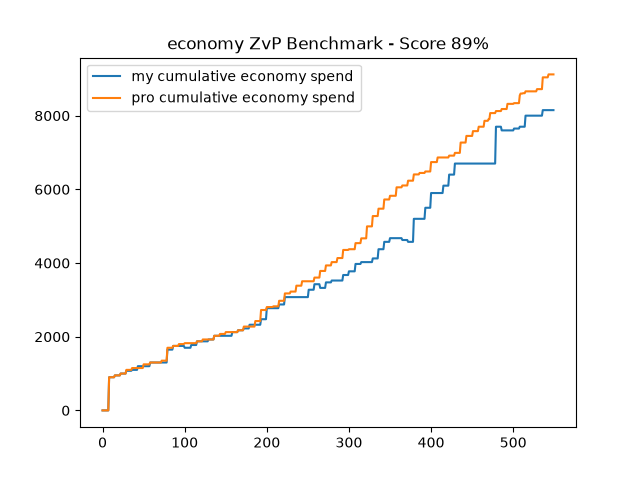
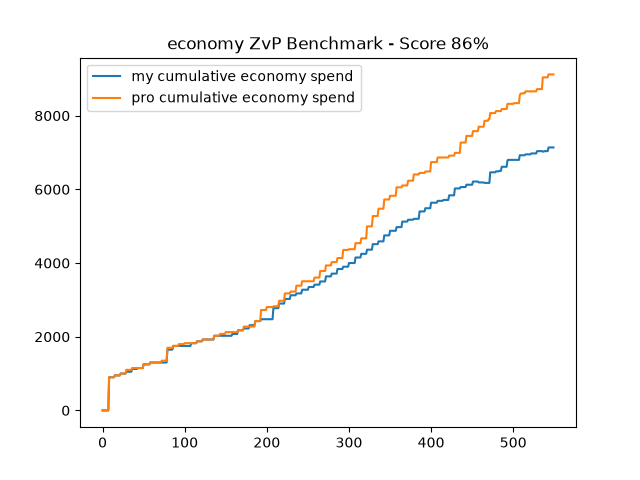
save

diff --git a/src/28_extract_my_army.py b/src/28_extract_my_army.py
@@ -7,7 +7,7 @@ from utils import *
 
 all_dfs = []
 game_number = 0
-for account in ['sample']:
+for account in ['sample/account1', 'sample/account2', 'sample/account3', 'sample/account4']:
     base_project_folder = get_base_project_folder()
     files = glob(f'{base_project_folder}/data/input/my_data/{account}/*')
     for file in tqdm.tqdm(files):
@@ -20,10 +20,12 @@ for account in ['sample']:
         if replay.map_name in ['Ruby Rock LE', 'Emerald City CE', 'Reclamation LE', 'Fields of Death', 'Gemgarden LE', 'New Bed of Chaos LE', 'Rhoskallian LE', 'Rust Bucket LE', 'Sludge City', 'Undercurrent LE', 'Yellowjacket', 'Phantom Mode']:
             continue
         game_number += 1
-        assert replay.map_name in ['valid_maps', "At Eternity's Edge LE", 'Blackrock LE', 'Fear and Faith LE', 'Rainfall LE', 'Sanctuary III LE', 'Lockdown LE', 'Washout LE', 'Rorschach LE', 'Old Sun Temple LE'], replay.map_name
+        if replay.map_name not in ['valid_maps', "At Eternity's Edge LE", 'Blackrock LE', 'Fear and Faith LE', 'Rainfall LE', 'Sanctuary III LE', 'Lockdown LE', 'Washout LE', 'Rorschach LE', 'Old Sun Temple LE']:
+            continue
 
         is_valid_release = replay.release_string >= '5.0.16'
-        assert is_valid_release, replay.release_string
+        if not is_valid_release:
+            continue
         
         player1 = 'nemo'
         player2 = None
@@ -57,11 +59,15 @@ for account in ['sample']:
                     continue
             except:
                 pass
-            
-        
-            if event.name == 'PlayerStatsEvent':
-                army_data.append(seconds)
-                army_amounts_data.append(event.minerals_used_current_army + event.minerals_used_in_progress_army + event.vespene_used_current_army + event.vespene_used_in_progress_army)
+            if event.name in ('UnitBornEvent', 'UnitInitEvent'):
+                unit = event.unit
+                if getattr(unit, 'is_army', False):
+                    army_data.append(seconds)
+                    army_amounts_data.append(unit.minerals + unit.vespene)
+    
+            # if event.name == 'PlayerStatsEvent':
+            #     army_data.append(seconds)
+            #     army_amounts_data.append(event.minerals_used_current_army + event.minerals_used_in_progress_army + event.vespene_used_current_army + event.vespene_used_in_progress_army)
             if seconds > 10*60:
                 break
         output_df = pd.DataFrame()

diff --git a/src/20_extract_my_supply.py b/src/20_extract_my_supply.py
@@ -7,7 +7,7 @@ from utils import *
 
 all_dfs = []
 game_number = 0
-for account in ['sample']:
+for account in ['sample/account1', 'sample/account2', 'sample/account3', 'sample/account4']:
     base_project_folder = get_base_project_folder()
     files = glob(f'{base_project_folder}/data/input/my_data/{account}/*')
     for file in tqdm.tqdm(files):
@@ -20,10 +20,12 @@ for account in ['sample']:
         if replay.map_name in ['Ruby Rock LE', 'Emerald City CE', 'Reclamation LE', 'Fields of Death', 'Gemgarden LE', 'New Bed of Chaos LE', 'Rhoskallian LE', 'Rust Bucket LE', 'Sludge City', 'Undercurrent LE', 'Yellowjacket', 'Phantom Mode']:
             continue
         game_number += 1
-        assert replay.map_name in ['valid_maps', "At Eternity's Edge LE", 'Blackrock LE', 'Fear and Faith LE', 'Rainfall LE', 'Sanctuary III LE', 'Lockdown LE', 'Washout LE', 'Rorschach LE', 'Old Sun Temple LE'], replay.map_name
+        if replay.map_name not in ['valid_maps', "At Eternity's Edge LE", 'Blackrock LE', 'Fear and Faith LE', 'Rainfall LE', 'Sanctuary III LE', 'Lockdown LE', 'Washout LE', 'Rorschach LE', 'Old Sun Temple LE']:
+            continue
 
         is_valid_release = replay.release_string >= '5.0.16'
-        assert is_valid_release, replay.release_string
+        if not is_valid_release:
+            continue
         
         player1 = 'nemo'
         player2 = None
@@ -61,7 +63,7 @@ for account in ['sample']:
         
             if event.name == 'PlayerStatsEvent':
                 supply_data.append(seconds)
-                supply_amounts_data.append(event.food_made - event.food_used)
+                supply_amounts_data.append(event.food_made)
             if seconds > 10*60:
                 break
         output_df = pd.DataFrame()

diff --git a/src/3_extract_my_larva_born.py b/src/3_extract_my_larva_born.py
@@ -7,7 +7,7 @@ from utils import *
 
 all_dfs = []
 game_number = 0
-for account in ['sample']:
+for account in ['sample/account1', 'sample/account2', 'sample/account3', 'sample/account4']:
     base_project_folder = get_base_project_folder()
     files = glob(f'{base_project_folder}/data/input/my_data/{account}/*')
     for file in tqdm.tqdm(files):
@@ -17,13 +17,15 @@ for account in ['sample']:
         except Exception as e:
             print(f"Failed to load {file}: {e}")
             continue
-        if replay.map_name in ['Ruby Rock LE', 'Emerald City CE', 'Reclamation LE', 'Fields of Death', 'Gemgarden LE', 'New Bed of Chaos LE', 'Rhoskallian LE', 'Rust Bucket LE', 'Sludge City', 'Undercurrent LE', 'Yellowjacket', 'Phantom Mode']:
+        if replay.map_name in ['Ruby Rock LE', 'Emerald City CE', 'Reclamation LE', 'Fields of Death', 'Gemgarden LE', 'New Bed of Chaos LE', 'Rhoskallian LE', 'Rust Bucket LE', 'Sludge City', 'Undercurrent LE', 'Yellowjacket', 'Phantom Mode', '']:
             continue
         game_number += 1
-        assert replay.map_name in ['valid_maps', "At Eternity's Edge LE", 'Blackrock LE', 'Fear and Faith LE', 'Rainfall LE', 'Sanctuary III LE', 'Lockdown LE', 'Washout LE', 'Rorschach LE', 'Old Sun Temple LE'], replay.map_name
+        if replay.map_name not in ['valid_maps', "At Eternity's Edge LE", 'Blackrock LE', 'Fear and Faith LE', 'Rainfall LE', 'Sanctuary III LE', 'Lockdown LE', 'Washout LE', 'Rorschach LE', 'Old Sun Temple LE']:
+            continue
 
         is_valid_release = replay.release_string >= '5.0.16'
-        assert is_valid_release, replay.release_string
+        if not is_valid_release:
+            continue
         
         player1 = 'nemo'
         player2 = None

diff --git a/src/main.py b/src/main.py
@@ -26,14 +26,15 @@ def save_params(val1, val2):
         print(f"Failed to save preferences: {e}")
 
 def my_main_function(replay_path, player_name):
-    all_files = glob("*.py")
-    files_of_interest = [y for (x, y) in sorted([(str(x.split("_")[0]).zfill(2), x) for x in all_files]) if 'get_data' not in y and 'pro' not in y and y not in ['main.py', 'utils.py']]
-    result = subprocess.run([sys.executable, '1_get_data.py', replay_path, player_name], check=True, capture_output=True, text=True)
-    print("STDOUT:", result.stdout)
-    print("STDERR:", result.stderr)
+    all_files = glob("*.py") # and 'pro' not in y
+    files_of_interest = [y for (x, y) in sorted([(str(x.split("_")[0]).zfill(2), x) for x in all_files]) if 'get_data' not in y and y not in ['main.py', 'utils.py', 'flask_app_backup.py']]
+    print(files_of_interest)
+    # result = subprocess.run([sys.executable, '1_get_data.py', replay_path, player_name], check=True, capture_output=True, text=True)
+    # print("STDOUT:", result.stdout)
+    # print("STDERR:", result.stderr)
     for script_name in tqdm.tqdm(files_of_interest):
         print(script_name)
-        subprocess.run([sys.executable, script_name], check=True)
+        result = subprocess.run([sys.executable, script_name], check=True)
         print("STDOUT:", result.stdout)
         print("STDERR:", result.stderr)
     html_file = Path(__file__).parent / "output_html.html"

diff --git a/src/11_extract_my_larva.py b/src/11_extract_my_larva.py
@@ -7,7 +7,7 @@ from utils import *
 
 all_dfs = []
 game_number = 0
-for account in ['sample']:
+for account in ['sample/account1', 'sample/account2', 'sample/account3', 'sample/account4']:
     base_project_folder = get_base_project_folder()
     files = glob(f'{base_project_folder}/data/input/my_data/{account}/*')
     for file in tqdm.tqdm(files):
@@ -20,10 +20,12 @@ for account in ['sample']:
         if replay.map_name in ['Ruby Rock LE', 'Emerald City CE', 'Reclamation LE', 'Fields of Death', 'Gemgarden LE', 'New Bed of Chaos LE', 'Rhoskallian LE', 'Rust Bucket LE', 'Sludge City', 'Undercurrent LE', 'Yellowjacket', 'Phantom Mode']:
             continue
         game_number += 1
-        assert replay.map_name in ['valid_maps', "At Eternity's Edge LE", 'Blackrock LE', 'Fear and Faith LE', 'Rainfall LE', 'Sanctuary III LE', 'Lockdown LE', 'Washout LE', 'Rorschach LE', 'Old Sun Temple LE'], replay.map_name
+        if replay.map_name not in ['valid_maps', "At Eternity's Edge LE", 'Blackrock LE', 'Fear and Faith LE', 'Rainfall LE', 'Sanctuary III LE', 'Lockdown LE', 'Washout LE', 'Rorschach LE', 'Old Sun Temple LE']:
+            continue
 
         is_valid_release = replay.release_string >= '5.0.16'
-        assert is_valid_release, replay.release_string
+        if not is_valid_release:
+            continue
         
         player1 = 'nemo'
         player2 = None

diff --git a/src/16_extract_my_creep.py b/src/16_extract_my_creep.py
@@ -7,7 +7,7 @@ from utils import *
 
 all_dfs = []
 game_number = 0
-for account in ['sample']:
+for account in ['sample/account1', 'sample/account2', 'sample/account3', 'sample/account4']:
     base_project_folder = get_base_project_folder()
     files = glob(f'{base_project_folder}/data/input/my_data/{account}/*')
     for file in tqdm.tqdm(files):
@@ -20,10 +20,12 @@ for account in ['sample']:
         if replay.map_name in ['Ruby Rock LE', 'Emerald City CE', 'Reclamation LE', 'Fields of Death', 'Gemgarden LE', 'New Bed of Chaos LE', 'Rhoskallian LE', 'Rust Bucket LE', 'Sludge City', 'Undercurrent LE', 'Yellowjacket', 'Phantom Mode']:
             continue
         game_number += 1
-        assert replay.map_name in ['valid_maps', "At Eternity's Edge LE", 'Blackrock LE', 'Fear and Faith LE', 'Rainfall LE', 'Sanctuary III LE', 'Lockdown LE', 'Washout LE', 'Rorschach LE', 'Old Sun Temple LE'], replay.map_name
+        if replay.map_name not in ['valid_maps', "At Eternity's Edge LE", 'Blackrock LE', 'Fear and Faith LE', 'Rainfall LE', 'Sanctuary III LE', 'Lockdown LE', 'Washout LE', 'Rorschach LE', 'Old Sun Temple LE']:
+            continue
 
         is_valid_release = replay.release_string >= '5.0.16'
-        assert is_valid_release, replay.release_string
+        if not is_valid_release:
+            continue
         
         player1 = 'nemo'
         player2 = None

diff --git a/src/24_extract_my_economy.py b/src/24_extract_my_economy.py
@@ -7,7 +7,7 @@ from utils import *
 
 all_dfs = []
 game_number = 0
-for account in ['sample']:
+for account in ['sample/account1', 'sample/account2', 'sample/account3', 'sample/account4']:
     base_project_folder = get_base_project_folder()
     files = glob(f'{base_project_folder}/data/input/my_data/{account}/*')
     for file in tqdm.tqdm(files):
@@ -20,10 +20,12 @@ for account in ['sample']:
         if replay.map_name in ['Ruby Rock LE', 'Emerald City CE', 'Reclamation LE', 'Fields of Death', 'Gemgarden LE', 'New Bed of Chaos LE', 'Rhoskallian LE', 'Rust Bucket LE', 'Sludge City', 'Undercurrent LE', 'Yellowjacket', 'Phantom Mode']:
             continue
         game_number += 1
-        assert replay.map_name in ['valid_maps', "At Eternity's Edge LE", 'Blackrock LE', 'Fear and Faith LE', 'Rainfall LE', 'Sanctuary III LE', 'Lockdown LE', 'Washout LE', 'Rorschach LE', 'Old Sun Temple LE'], replay.map_name
+        if replay.map_name not in ['valid_maps', "At Eternity's Edge LE", 'Blackrock LE', 'Fear and Faith LE', 'Rainfall LE', 'Sanctuary III LE', 'Lockdown LE', 'Washout LE', 'Rorschach LE', 'Old Sun Temple LE']:
+            continue
 
         is_valid_release = replay.release_string >= '5.0.16'
-        assert is_valid_release, replay.release_string
+        if not is_valid_release:
+            continue
         
         player1 = 'nemo'
         player2 = None

diff --git a/src/32_extract_my_tech.py b/src/32_extract_my_tech.py
@@ -7,7 +7,7 @@ from utils import *
 
 all_dfs = []
 game_number = 0
-for account in ['sample']:
+for account in ['sample/account1', 'sample/account2', 'sample/account3', 'sample/account4']:
     base_project_folder = get_base_project_folder()
     files = glob(f'{base_project_folder}/data/input/my_data/{account}/*')
     for file in tqdm.tqdm(files):
@@ -20,10 +20,12 @@ for account in ['sample']:
         if replay.map_name in ['Ruby Rock LE', 'Emerald City CE', 'Reclamation LE', 'Fields of Death', 'Gemgarden LE', 'New Bed of Chaos LE', 'Rhoskallian LE', 'Rust Bucket LE', 'Sludge City', 'Undercurrent LE', 'Yellowjacket', 'Phantom Mode']:
             continue
         game_number += 1
-        assert replay.map_name in ['valid_maps', "At Eternity's Edge LE", 'Blackrock LE', 'Fear and Faith LE', 'Rainfall LE', 'Sanctuary III LE', 'Lockdown LE', 'Washout LE', 'Rorschach LE', 'Old Sun Temple LE'], replay.map_name
+        if replay.map_name not in ['valid_maps', "At Eternity's Edge LE", 'Blackrock LE', 'Fear and Faith LE', 'Rainfall LE', 'Sanctuary III LE', 'Lockdown LE', 'Washout LE', 'Rorschach LE', 'Old Sun Temple LE']:
+            continue
 
         is_valid_release = replay.release_string >= '5.0.16'
-        assert is_valid_release, replay.release_string
+        if not is_valid_release:
+            continue
         
         player1 = 'nemo'
         player2 = None

diff --git a/src/7_extract_my_unspent.py b/src/7_extract_my_unspent.py
@@ -7,7 +7,7 @@ from utils import *
 
 all_dfs = []
 game_number = 0
-for account in ['sample']:
+for account in ['sample/account1', 'sample/account2', 'sample/account3', 'sample/account4']:
     base_project_folder = get_base_project_folder()
     files = glob(f'{base_project_folder}/data/input/my_data/{account}/*')
     for file in tqdm.tqdm(files):
@@ -20,10 +20,12 @@ for account in ['sample']:
         if replay.map_name in ['Ruby Rock LE', 'Emerald City CE', 'Reclamation LE', 'Fields of Death', 'Gemgarden LE', 'New Bed of Chaos LE', 'Rhoskallian LE', 'Rust Bucket LE', 'Sludge City', 'Undercurrent LE', 'Yellowjacket', 'Phantom Mode']:
             continue
         game_number += 1
-        assert replay.map_name in ['valid_maps', "At Eternity's Edge LE", 'Blackrock LE', 'Fear and Faith LE', 'Rainfall LE', 'Sanctuary III LE', 'Lockdown LE', 'Washout LE', 'Rorschach LE', 'Old Sun Temple LE'], replay.map_name
+        if replay.map_name not in ['valid_maps', "At Eternity's Edge LE", 'Blackrock LE', 'Fear and Faith LE', 'Rainfall LE', 'Sanctuary III LE', 'Lockdown LE', 'Washout LE', 'Rorschach LE', 'Old Sun Temple LE']:
+            continue
 
         is_valid_release = replay.release_string >= '5.0.16'
-        assert is_valid_release, replay.release_string
+        if not is_valid_release:
+            continue
         
         player1 = 'nemo'
         player2 = None

diff --git a/src/27_extract_pro_army.py b/src/27_extract_pro_army.py
@@ -52,11 +52,16 @@ for file in tqdm.tqdm(files):
                 continue
         except:
             pass
-        
+
+        if event.name in ('UnitBornEvent', 'UnitInitEvent'):
+            unit = event.unit
+            if getattr(unit, 'is_army', False):
+                army_data.append(seconds)
+                army_amounts_data.append(unit.minerals + unit.vespene)
     
-        if event.name == 'PlayerStatsEvent':
-            army_data.append(seconds)
-            army_amounts_data.append(event.minerals_used_current_army + event.minerals_used_in_progress_army + event.vespene_used_current_army + event.vespene_used_in_progress_army)
+        # if event.name == 'PlayerStatsEvent':
+        #     army_data.append(seconds)
+        #     army_amounts_data.append(event.minerals_used_current_army + event.minerals_used_in_progress_army + event.vespene_used_current_army + event.vespene_used_in_progress_army)
         if seconds > 10*60:
             break
     output_df = pd.DataFrame()

diff --git a/src/21_transform_supply.py b/src/21_transform_supply.py
@@ -24,7 +24,7 @@ for game_number in pro_df.game_number.unique():
             data_i.append(i)
             cumulative_total.append(current_cumulative)
             i += 1
-        current_cumulative += input_data2[j]
+        current_cumulative = input_data2[j]
 
     pro_data_cumulative_df = pd.DataFrame()
     pro_data_cumulative_df['second'] = data_i
@@ -52,7 +52,7 @@ for game_number in my_df.game_number.unique():
             data_i.append(i)
             cumulative_total.append(current_cumulative)
             i += 1
-        current_cumulative += input_data2[j]
+        current_cumulative = input_data2[j]
 
     my_data_cumulative_df = pd.DataFrame()
     my_data_cumulative_df['second'] = data_i

diff --git a/src/29_transform_army.py b/src/29_transform_army.py
@@ -24,7 +24,7 @@ for game_number in pro_df.game_number.unique():
             data_i.append(i)
             cumulative_total.append(current_cumulative)
             i += 1
-        current_cumulative = input_data2[j]
+        current_cumulative += input_data2[j]
 
     pro_data_cumulative_df = pd.DataFrame()
     pro_data_cumulative_df['second'] = data_i
@@ -52,7 +52,7 @@ for game_number in my_df.game_number.unique():
             data_i.append(i)
             cumulative_total.append(current_cumulative)
             i += 1
-        current_cumulative = input_data2[j]
+        current_cumulative += input_data2[j]
 
     my_data_cumulative_df = pd.DataFrame()
     my_data_cumulative_df['second'] = data_i
